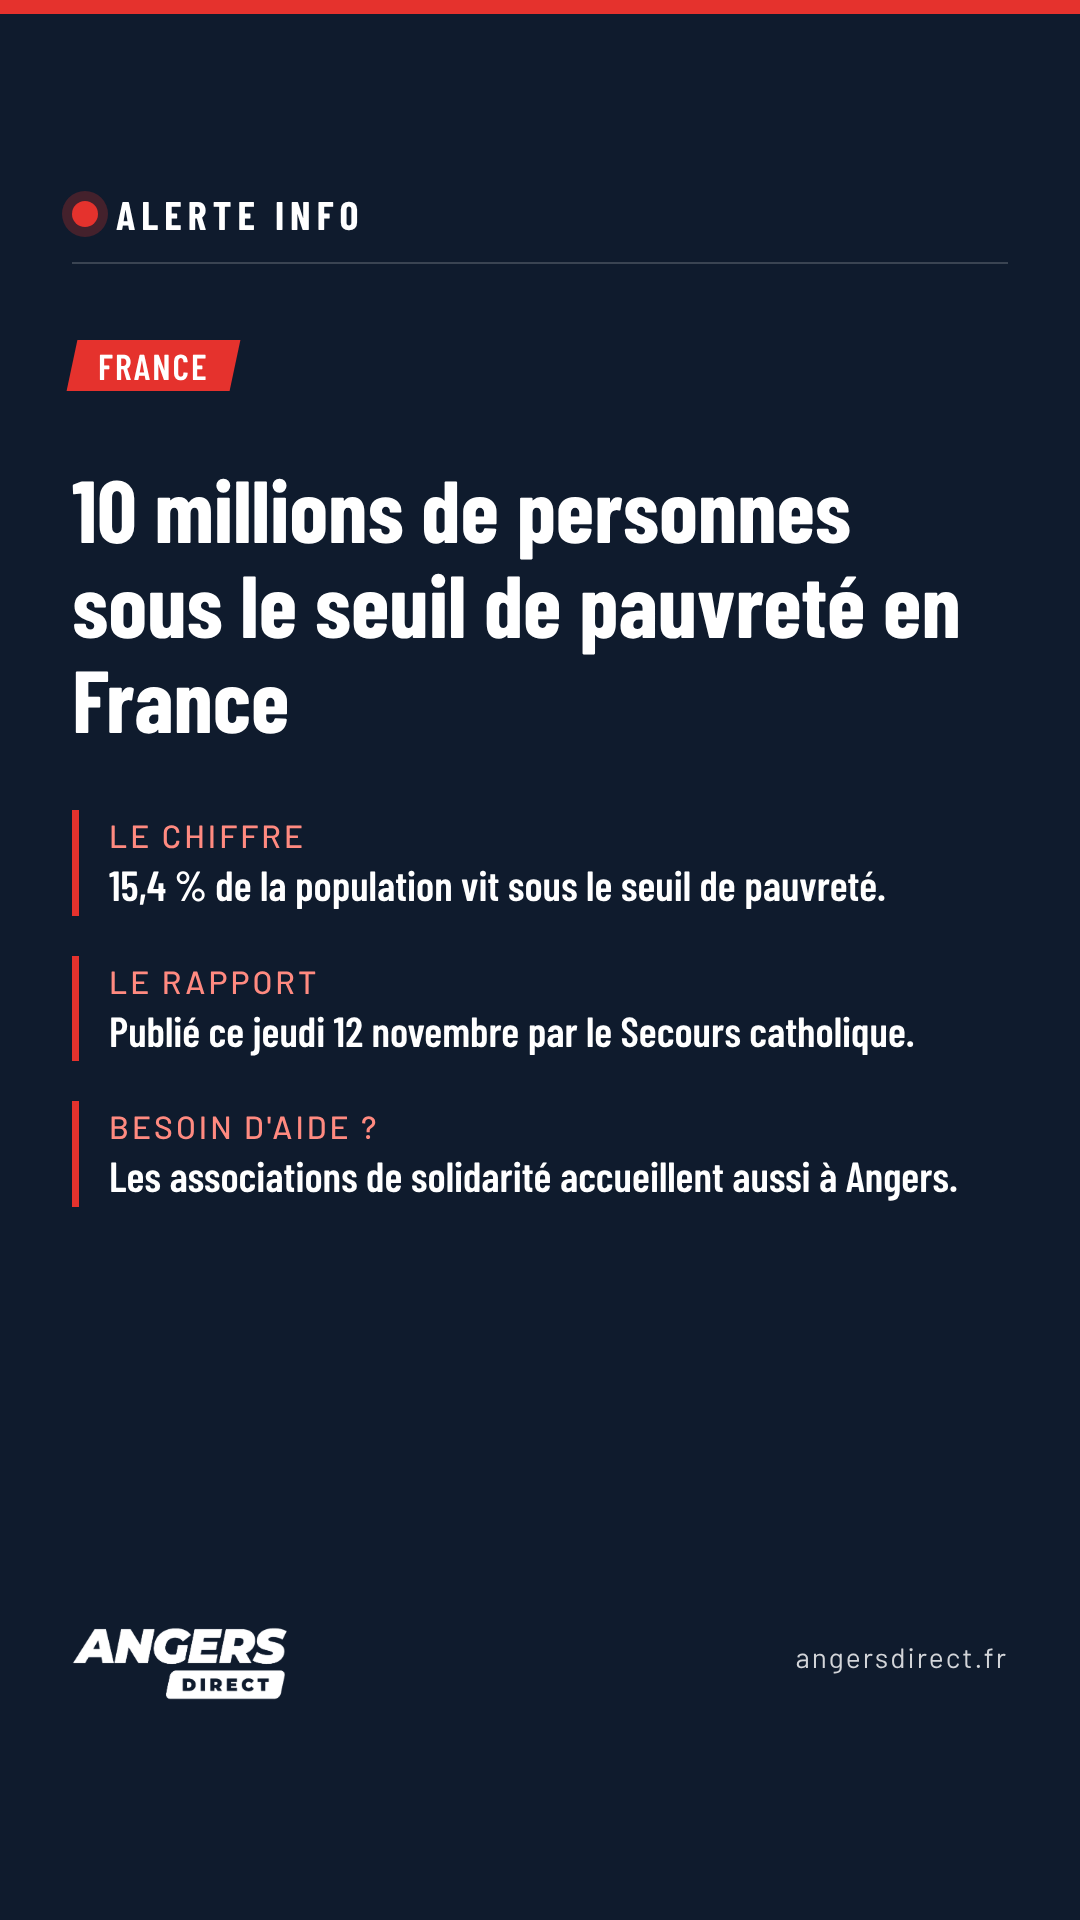
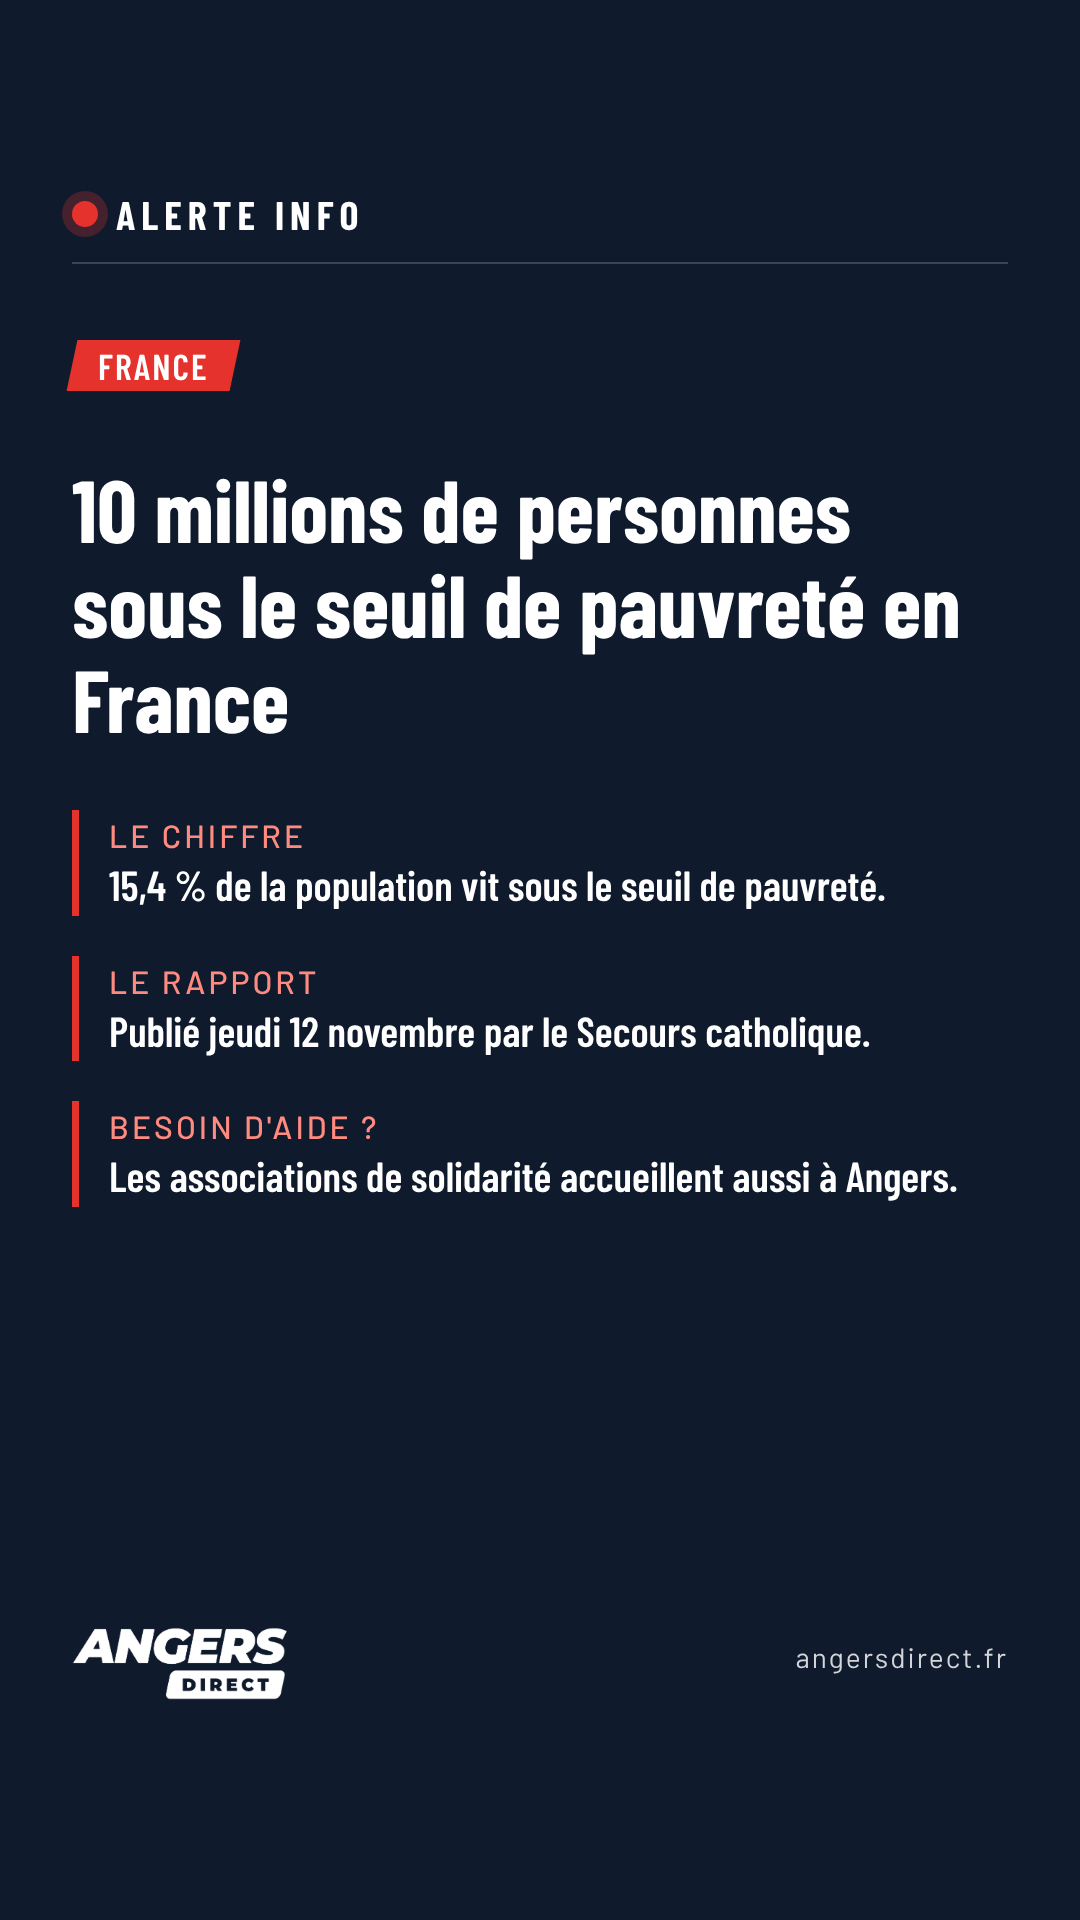
Alerte info : retrait du trait rouge en haut
Claude-Session: https://claude.ai/code/session_01ShcrTsm3cJDHxKdMorLYTA

Changed region(s): [[0.0, 0.0, 1.0, 0.0312], [0.1833, 0.5312, 0.8556, 0.5625]]

diff --git a/outils/alerte.py b/outils/alerte.py
@@ -2,7 +2,7 @@
 - « trafic » (par défaut) : modèle angers-direct-modele-travaux-circulation, bandes jaunes et noires en haut.
   RÉSERVÉ aux problèmes de circulation, accidents de la route, travaux (règle de la rédaction, 13 novembre 2026).
 - « info » : alerte info nationale ou internationale (catastrophe, attentat, décès, décision majeure...),
-  sans bandes de chantier : liseré rouge, en-tête « ALERTE INFO » avec point rouge, étiquette et filets rouges.
+  sans bandes de chantier : en-tête « ALERTE INFO » avec point rouge, étiquette et filets rouges.
 
 Usage : python3 outils/alerte.py fiche.json sortie.png
 Fiche : {"modele": "trafic" | "info", "format": "post" (1080x1350) ou "story" (1080x1920), "tag": "TRAVAUX · CIRCULATION",
@@ -37,8 +37,7 @@ def page(f, W, H):
     accent = ROUGE if info else JAUNE
     label_c = ROUGE_CLAIR if info else JAUNE
     if info:
-        haut = f'''<div style="position:absolute;top:0;left:0;width:{W}px;height:14px;background:{ROUGE}"></div>
-<div style="position:absolute;left:72px;top:{190 if story else 70}px;display:flex;align-items:center;gap:18px">
+        haut = f'''<div style="position:absolute;left:72px;top:{190 if story else 70}px;display:flex;align-items:center;gap:18px">
 <div style="width:26px;height:26px;border-radius:50%;background:{ROUGE};box-shadow:0 0 0 10px rgba(229,50,45,.25)"></div>
 <div style="{BC};font-weight:700;font-size:40px;letter-spacing:6px">ALERTE INFO</div></div>
 <div style="position:absolute;left:72px;right:72px;top:{262 if story else 140}px;height:2px;background:rgba(255,255,255,.18)"></div>'''

diff --git a/outils/LISEZMOI.md b/outils/LISEZMOI.md
@@ -27,7 +27,7 @@ Le haut de chaque visuel (post et story) porte une **photo**, sauf quand le suje
 
 `outils/alerte.py` a deux modèles, choisis avec le champ `modele` de la fiche :
 - `"modele": "trafic"` (par défaut, bandes jaunes et noires « chantier ») : **uniquement** pour les problèmes de circulation, accidents de la route, travaux.
-- `"modele": "info"` (liseré rouge, en-tête « ALERTE INFO », étiquette et filets rouges, sans bandes) : toutes les autres alertes, notamment les alertes nationales et internationales (catastrophe, attentat, décès, décision majeure, rapport, chiffre national...).
+- `"modele": "info"` (en-tête « ALERTE INFO » avec point rouge, étiquette et filets rouges, sans bandes) : toutes les autres alertes, notamment les alertes nationales et internationales (catastrophe, attentat, décès, décision majeure, rapport, chiffre national...).
 Jamais les bandes de chantier sur un sujet qui n'est pas trafic, accident ou travaux. Un sujet qui repose sur un chiffre (rapport, statistique) peut aussi prendre la carte `fiche` / `story_fiche.py`.
 Exemple : `2026-11-13/exemple-alerte-info-post.json`.
 
